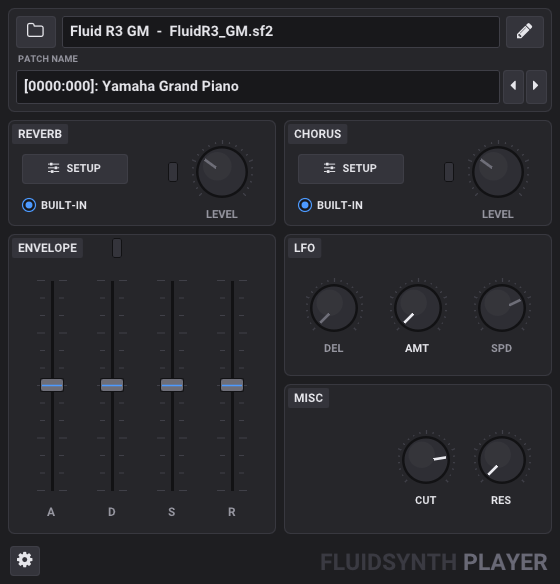
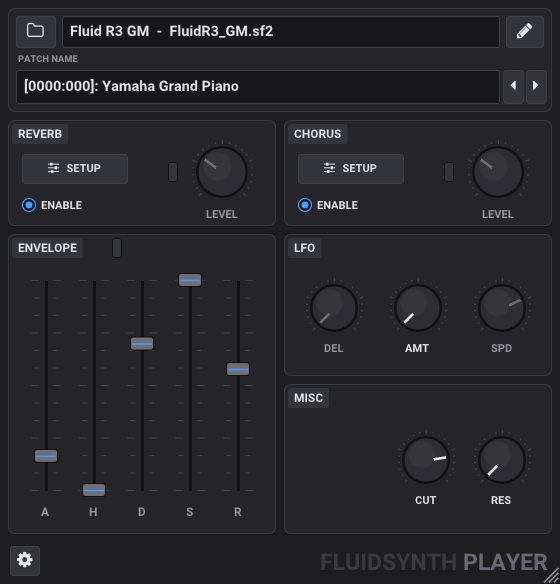
updated readme

diff --git a/README.md b/README.md
@@ -34,13 +34,15 @@ Those components are currently available - as x86_64 versions - for Windows and 
 
 All the code is open-source; hence you can check and adapt it to your needs.
 
-## CLAP Plugin with ImGui Interface (Linux and Windows)
+## CLAP / VST3 Plugin with ImGui Interface (Linux and Windows)
 
 Besides the original JUCE-based VST3/AU plugin, this fork contains a
-**JUCE-free CLAP plugin**, `FluidSynthPlayer.clap`, with a Dear ImGui
-interface over OpenGL2 - raw X11/GLX on Linux (the same GUI stack as the
-sibling projects SfzDrummer and SoloSampler), Win32/WGL on Windows - in a
-single compact panel (560x584, scales when resized):
+**JUCE-free CLAP plugin**, `FluidSynthPlayer.clap` - also built as
+`FluidSynthPlayer.vst3` from the same code (see *VST3* below) - with a Dear
+ImGui interface over OpenGL2 - raw X11/GLX on Linux (the same GUI stack as
+the sibling projects SfzDrummer and SoloSampler), Win32/WGL on Windows - in
+a single compact panel (560x584 at 100%, resizable from 75% to 200%). DAWs
+list it as an instrument of the *Sampler* category.
 
 ![FluidSynthPlayer CLAP plugin](./doc/clap/FluidSynthPlayer.png)
 
@@ -71,13 +73,19 @@ single compact panel (560x584, scales when resized):
   tune, Poly/Mono/Legato, portamento, polyphony, interpolation, the raw
   FluidSynth settings of the original plugin, SoundFont info and the
   FluidSynth log.
+- **Multitimbral mode**: each MIDI channel plays its own patch (bank select
+  and program change, or the channel table); the panel's ENVELOPE, LFO,
+  MISC and REVERB / CHORUS settings act on all 16 channels alike (the drum
+  channel included; Transpose leaves drum kits alone), while Bank/Patch,
+  Mono/Legato and portamento belong to channel 1.
 - **Resizing**: drag the grip in the bottom-right corner (75% to 200% of
   the panel, aspect kept) - works in DAWs that can't resize plugin windows
   themselves, as the plugin asks the host for the new size. The DAW's own
   resizing is limited the same way. Saved with the project; new instances
   open at the last size set with the grip.
-- Every control is a CLAP parameter (automation, gestures, text entry);
-  MIDI events are placed sample-accurately as in the original plugin.
+- Every control is a plugin parameter (CLAP and VST3: automation,
+  gestures, text entry); MIDI events are placed sample-accurately as in the
+  original plugin.
 - **Restore MIDI controllers** (Options): some SoundFonts - e.g. converted
   E-mu EMAX II libraries - redefine the standard SF2 modulators with zero
   amounts, which per the spec disables CC7 volume, CC10 pan, CC11
@@ -191,10 +199,19 @@ powershell -ExecutionPolicy Bypass -File scripts\package-windows.ps1 -BuildDir b
 
 Install by copying `FluidSynthPlayer.clap` into
 `C:\Program Files\Common Files\CLAP\` (all users) or
-`%LOCALAPPDATA%\Programs\Common\CLAP\` (current user). A libsndfile
-that is a DLL (e.g. MSYS2's) also works, but then it and its codec DLLs
-must be found by the *host* (next to the DAW's `.exe` or in `PATH`) - CMake
-warns about it; prefer a static one.
+`%LOCALAPPDATA%\Programs\Common\CLAP\` (current user), and/or the
+`FluidSynthPlayer.vst3` bundle into `C:\Program Files\Common Files\VST3\`
+or `%LOCALAPPDATA%\Programs\Common\VST3\` - or let the install script do
+it, from the repository or an extracted distribution zip (`-CurrentUser`
+needs no administrator rights):
+
+```powershell
+powershell -ExecutionPolicy Bypass -File scripts\install-windows.ps1 [-CurrentUser]
+```
+
+A libsndfile that is a DLL (e.g. MSYS2's) also works, but then it and its
+codec DLLs must be found by the *host* (next to the DAW's `.exe` or in
+`PATH`) - CMake warns about it; prefer a static one.
 
 On Windows the editor is a child window running on the host's UI thread
 (redrawn from a timer), *Open...* uses the native file dialog, SoundFonts
@@ -216,8 +233,9 @@ SoundFont such as FluidR3_GM, e.g. `test\SimpleTestSoundfont.sf2` passes
 them all.
 
 The sources live in `src/clap/`; the vendored FluidSynth (LGPL-2.1),
-Signalsmith, CLAP headers, Dear ImGui, Font Awesome and Roboto (UI font,
-Apache 2.0) in `external/`.
+Signalsmith, CLAP headers, Dear ImGui, Font Awesome, Roboto (UI font,
+Apache 2.0), clap-wrapper (MIT, with `patches/clap-wrapper/` applied) and
+the VST3 SDK subset it needs (MIT) in `external/`.
 
 ## Installation
 
